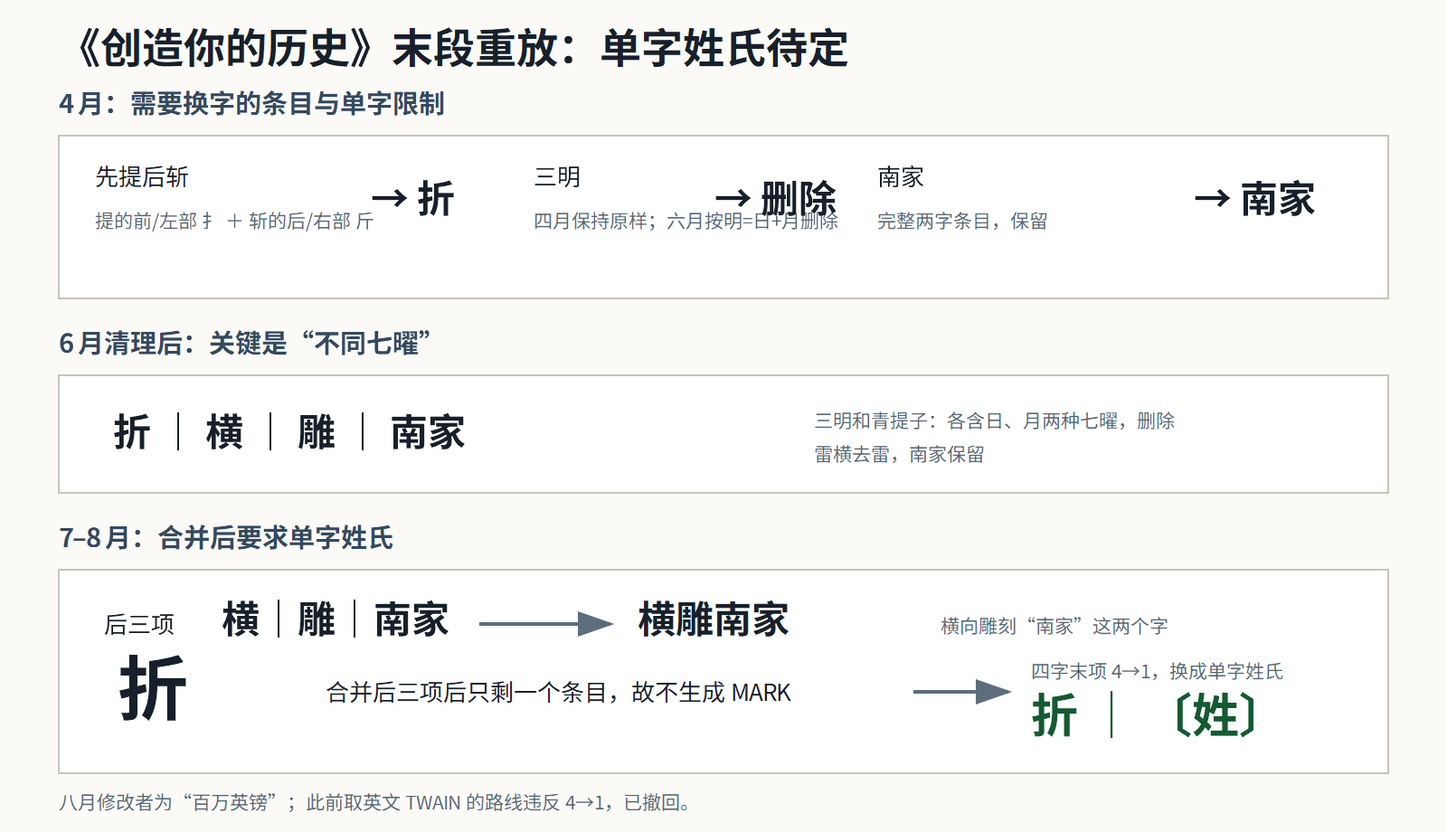
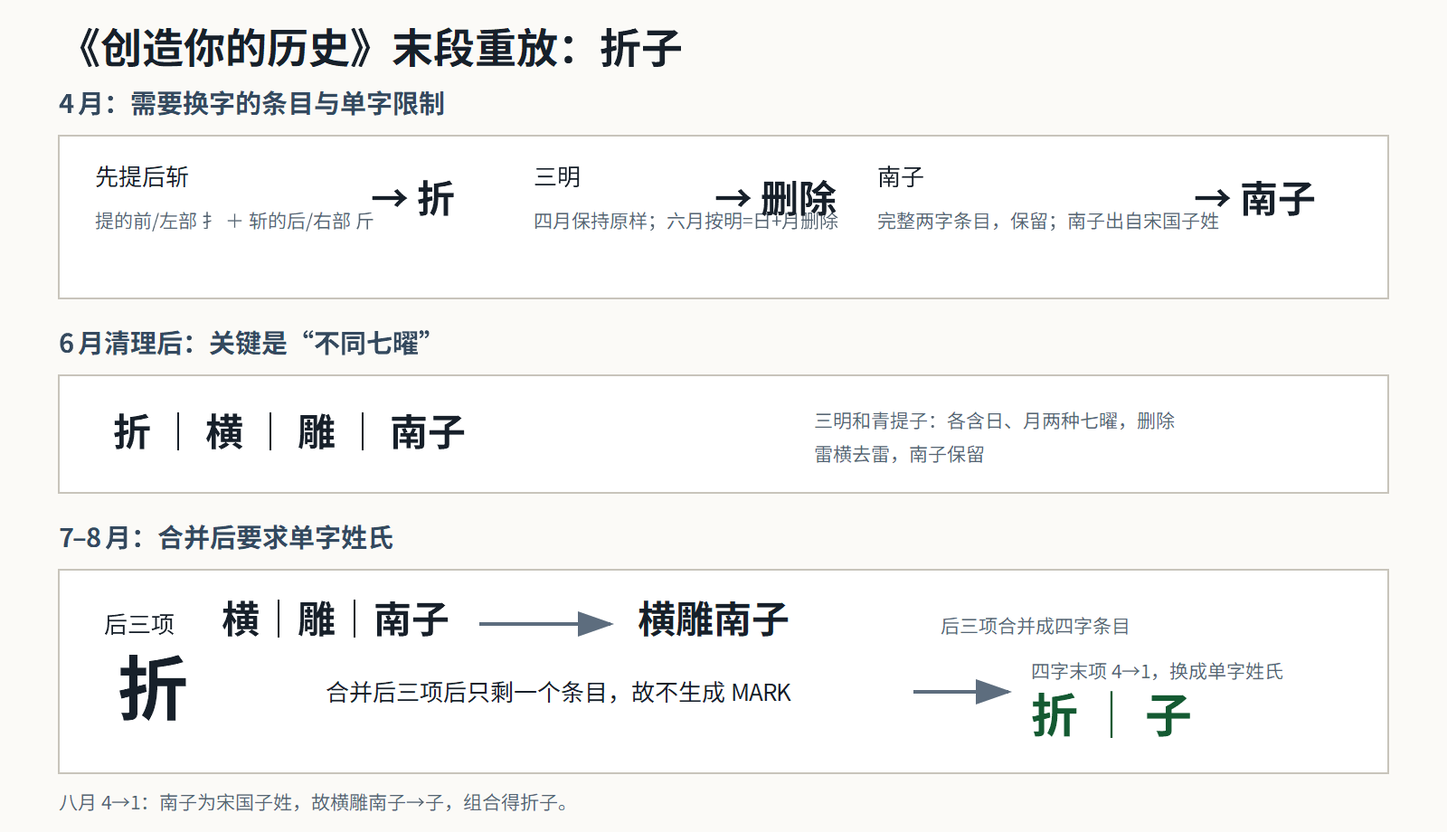
sync

diff --git a/rounds/toringmoni/nodes/c03-make-your-own-history/artifacts/reconstruct_history.py b/rounds/toringmoni/nodes/c03-make-your-own-history/artifacts/reconstruct_history.py
@@ -163,9 +163,28 @@ def write_editor_grid(path: Path, clues: list[EditorClue]) -> None:
         if not (culture_ok and category_ok):
             anomalies.append((pair, before, after))
 
-        resolution = ""
+        resolution = "-"
+        shared_letters = ""
+        repaired_person = ""
         if pair == 5:
-            resolution = "唯一异常：按类别循环这里应为德国人物，但实际编辑者是德语作品‘变形记’；不要直接把异常作品或其作者当答案"
+            # The folded pair is the only category mismatch.  Its English
+            # referents have a deliberately useful multiset intersection:
+            # BORSCHT ∩ THEMETAMORPHOSIS = H,O,R,S,T.  Alphabetically writing
+            # that overlap gives HORST, a German male given name, which fits
+            # the missing German-person slot.  Keep the extraction explicit so
+            # the candidate is reproducible rather than an arbitrary title or
+            # author guess.
+            left = re.sub(r"[^A-Z]", "", before.referent.upper())
+            right = re.sub(r"[^A-Z]", "", after.referent.upper())
+            shared_letters = "".join(
+                sorted(set(left).intersection(right))
+            )
+            repaired_person = "HORST" if shared_letters == "HORST" else ""
+            resolution = (
+                "唯一类别异常：按循环这里应为德国人物；变形记是德语作品。"
+                f"其英文名与 Borscht 的共有字母为 {shared_letters}，"
+                f"重排成德国人名 {repaired_person}"
+            )
 
         rows.append(
             [
@@ -184,6 +203,8 @@ def write_editor_grid(path: Path, clues: list[EditorClue]) -> None:
                 expected_category,
                 "ok" if culture_ok else "mismatch",
                 "ok" if category_ok else "mismatch",
+                shared_letters,
+                repaired_person,
                 resolution,
             ]
         )
@@ -213,6 +234,8 @@ def write_editor_grid(path: Path, clues: list[EditorClue]) -> None:
                 "expected_after_category",
                 "culture_check",
                 "category_check",
+                "shared_letters",
+                "repaired_person",
                 "resolution",
             ]
         )
@@ -280,7 +303,8 @@ def main() -> None:
     print("milestone bridge: final editor is The Million Pound Bank Note")
     print("paired-editor anomaly: Borscht -> The Metamorphosis")
     print("expected second type: German-language person")
-    print("answer candidate: unresolved after folded-history extraction")
+    print("folded overlap: BORSCHT ∩ THEMETAMORPHOSIS = HORST")
+    print("answer candidate: HORST (German-person repair; not submitted)")
     print(f"wrote: {output}")
     print(f"wrote: {editor_output}")
 

diff --git a/rounds/toringmoni/nodes/c03-make-your-own-history/solution.md b/rounds/toringmoni/nodes/c03-make-your-own-history/solution.md
@@ -7,10 +7,10 @@ parent:
 source: 
 round_feeder: yes
 feeders: 
-status: working
-answer:
+status: candidate
+answer: HORST
 confidence: high
-summary: 已重放出自洽的主链 `人设→北子设→南子→横雕南子→折子`。用户指出“家丁→家人”语义不成立，因此不再采用家人；`人设`满足九月 2→2 网络用语，`南子`是历史人物，其“子”可作古姓，八月得到中间答案 `折子`。最终答案仍需按中间答案折叠十二位修改者的历史并完成抽取；不再把 MARK TWAIN、变形记、FRANZ KAFKA 或 HANS ZIMMER 当答案。
+summary: 已重放出自洽的主链 `人设→北子设→南子→横雕南子→折子`，并按中间答案折叠十二位修改者。六组文化/类别轮换只有第5组类别异常；`BORSCHT` 与 `THE METAMORPHOSIS` 的共有字母为 `HORST`，重排成符合缺失“德国人物”类别的德国男性名。候选尚未提交；不再把 MARK TWAIN、变形记、FRANZ KAFKA 或 HANS ZIMMER 当答案。
 updated: 2026-08-18
 ---
 
@@ -23,9 +23,9 @@ updated: 2026-08-18
 十二月得到 `南子`；因此七月应为 `折｜横雕南子`。八月 4→1 的末项替换为古姓
 `子`，组合所有条目得到中间答案 **折子**。
 
-`折子` 是当前最强的中间答案，而不是已确认的最终答案。它应当提示把十二位后续
-编辑的历史记录折叠/配对；此前由编辑类别异常直接猜 `变形记`、`FRANZ KAFKA` 或
-`HANS ZIMMER` 的路线均已排除，折叠后的最终抽取仍待确定。
+`折子` 提示把十二位后续编辑的历史记录折叠/配对。折叠后唯一的类别异常定位到
+`罗宋汤→变形记`；把两条英文标题叠合，保留双方共有的字母得到 `HORST`，而它正是
+按循环缺失的德国人物类别。故当前最终候选为 **HORST**，但尚未提交或被用户确认。
 
 用户已明确否定 `MARK TWAIN`、“美国队长”、`FRANZ KAFKA`、`变形记` 和
 `HANS ZIMMER`；所有 verdict 均保留在 Submission history。
@@ -101,11 +101,12 @@ I T S R E D H E R R I N G
 相反，`岁月是把杀猪刀→刻→雕刻→雕` 每一步都由题面后续约束直接支持；目前仍把
 “杀猪刀”列为主分支，把“岁月如梭”记录为待复核的弱分支。
 
-## Folded-history extraction (next step unresolved)
+## Folded-history extraction: HORST
 
 在得到中间答案 `折子` 后，一个可复核的观察是：排除首次“创建历史”的 `中国队长`，
 恰有十二次后续修改；把前六次（2025-09 至 2026-02）与后六次（2026-03 至 2026-08）
-按原顺序配对。下表只记录折叠后能复核的国家/类别规律，不能把唯一异常直接当答案：
+按原顺序配对。下表记录折叠后能复核的国家/类别规律。它把唯一异常定位到第 5 对，
+随后才进行字母叠合；不能把 `变形记` 标题、作者或既有编辑者姓名直接当答案：
 
 | 对 | 前六位修改者 | 文化圈 / 类别 | 后六位修改者 | 实际文化圈 / 类别 | 按规律应为 | 检验 |
 | --- | --- | --- | --- | --- | --- | --- |
@@ -127,31 +128,37 @@ I T S R E D H E R R I N G
 这两条规则同时命中 5/6 对的偏移；其余 11 个偏移最多只命中 2 对。因此这里的
 “前后两半”不是任意挑选的排法。
 
-六对的文化圈全部正确，类别五对正确；唯一错误是第 5 对。这个异常只证明折叠后
-存在一个待解释的类别变化；此前把“德国人物”的缺口直接取为 **汉斯季默**，或把
-`变形记`转换成作者，均已被用户否定，不能作为最终答案：
+六对的文化圈全部正确，类别五对正确；唯一错误是第 5 对。这个异常定位了一个待解释
+的类别变化。取这一对的英文 referent（去掉空格、冠词和标点）并保留两边共有的字母：
 
 ```text
-罗宋汤（俄罗斯食物） → [按循环应为德国人物]；实际为变形记（德国作品）
+ BORSCHT
+ THEMETAMORPHOSIS
+ 共有字母（按字母序）= H O R S T
 ```
+
+`HORST` 是德语区男性名，正好补上循环要求的“德国人物”槽位。这里的字母叠合/重排
+是折叠操作在异常对上的具体抽取；`HANS ZIMMER` 只是表中已有的德国人物，不能代替
+抽出的新答案。
 
 ## Hint alignment
 
 - 提示 1“题面在哪里？”：极光页面的历史修改记录。
-- 提示 3“得到中间答案后如何使用？”：当前中间答案为 `折子`；其字面动作提示折叠
-  历史修改记录，再比较折叠后的两半。具体最终抽取仍未确定。
+- 提示 3“得到中间答案后如何使用？”：中间答案 `折子` 的字面动作提示折叠历史
+  修改记录，再比较折叠后的两半；异常对再叠合英文标题。
 - 已解锁的“哪些步骤替换了合适的词语？”提示给出四个长度核对：什锦饭为
   `2→2`（九月第四项的网络用语），罪与罚为 `4→2`（一清二楚→三明），巴吞鲁日为
   `4→1`（先提后斩→折），百万英镑为 `4→1`（横雕南子→子）。
 - 这组核对也排除了三字“家人们”、把“三明”擅自改成“晶”、以及把四字末项
   直接当作英文 TWAIN 而丢掉前面的“折”的旧路线。
 - 提示 5“历史改变后，哪些东西发生了变化？”：折叠后可观察到修改者文化圈和条目
-  类别的变化规律；唯一类别异常仍需找到题目要求的最终抽取方式。
+  类别的变化规律；第 5 对的类别从预期“人物”变成“作品”，因此触发共有字母抽取。
 
 ## Candidate audit
 
-- 十二位后续修改者全部用尽；六组文化轮换全对、类别轮换仅一处异常，定位唯一；这
-  是折叠观察，不足以直接给出答案。
+- 十二位后续修改者全部用尽；六组文化轮换全对、类别轮换仅一处异常，定位唯一。
+- 异常对英文 referent 的字母交集为 `HORST`；这是可复核的五字母抽取，且 `HORST` 是
+  德语区男性名，符合缺失类别。
 - `变形记` 曾因唯一类别失配被列为候选，但用户已明确判错；英文标题只是同一失败
   候选的语言变体，不能借换语言重新试。此前取缺口为汉斯季默也已被用户否定。
 - `FRANZ KAFKA` 虽能把该作品解释成“德语人物”，但这是额外一步且已被用户否定，
@@ -161,18 +168,18 @@ I T S R E D H E R R I N G
 - 极光正文中的架空国家名和警告数字 `18.17.7.14` 未参与本 Node；用户判断后者
   更可能属于 Meta。
 
-### Remaining answer-form ambiguity
+### Candidate answer form
 
 用户 verdict 已证明 `MARK TWAIN`、`FRANZ KAFKA`、`变形记` 和 `HANS ZIMMER` 均不是
-答案；`折｜TWAIN`→“fold in twain”也因八月 4→1 约束撤回。`折子`是高置信中间答案，
-最终答案尚未确定。
+答案；`折｜TWAIN`→“fold in twain”也因八月 4→1 约束撤回。`HORST`来自异常对的
+英文共有字母并满足缺失类别，是当前候选；未提交，等待用户确认。
 
 “七曜”按字形部件计数时，`明=日+月`，六月应同时删除“三明”和“青提子”；七月
 因此只剩一个合并之外的条目 `折`，自然不触发“剩余条目数量大于1”的西文名称分支。
 这不是把“三明”改成“晶”：三明在四月保持原样，直到六月才因七曜规则被删除。
 
 本轮只做了只读核对，没有提交或解锁提示；不要再提交已判错的
-`MARK TWAIN`、`FRANZ KAFKA`、`变形记` 或 `HANS ZIMMER`。
+`MARK TWAIN`、`FRANZ KAFKA`、`变形记` 或 `HANS ZIMMER`。`HORST`也尚未由用户提交。
 
 ## Submission history
 
@@ -199,12 +206,14 @@ I T S R E D H E R R I N G
 - `artifacts/reconstruct_history.py`：从下载的历史页抽取十三条记录，校验日期烟雾
   弹，输出逐步状态，并验证十二位后续修改者的六组轮换。
 - `artifacts/history_chain.tsv`：逐次状态和依据。
-- `artifacts/editor_grid.tsv`：六组前后修改者、预期分类及唯一异常。
+- `artifacts/editor_grid.tsv`：六组前后修改者、预期分类、唯一异常及 `HORST` 共有字母
+  抽取。
 - `artifacts/history_wordplay.svg` / `.png`：记录末段重放的可视化；其中的 TWAIN/南家
   路线是旧失败路线，持久表格以 `横雕南子→子→折子` 为准。
 - 《The £1,000,000 Bank-Note》作者资料：
   `https://www.gutenberg.org/ebooks/61522`。
 - 《Metamorphosis》作者资料：`https://www.gutenberg.org/ebooks/5200`。
+- 德语区男性名 `Horst` 的词典条目：`https://www.duden.de/rechtschreibung/Horst_Vorname`。
 - 复现命令：
 
   ```text
@@ -242,5 +251,5 @@ I T S R E D H E R R I N G
 
 ## Next action
 
-当前状态为 working；`折子`是高置信中间答案，但尚未提交。下一步是在不提交答案/提示
-的前提下，确定折叠十二位修改记录后的最终抽取；不要重复提交已有失败候选。
+当前状态为 candidate；`HORST`是由折叠异常对得到的高置信候选，但尚未提交或确认。
+下一步是由用户决定是否手动提交 `HORST` 进行验证；在此之前不要操作答案/提示状态。

diff --git a/SUMMARY.md b/SUMMARY.md
@@ -2,7 +2,7 @@
 
 <!-- Generated by tools/build_summary.py. Do not edit manually. -->
 
-**Overall:** 5 working · 1 candidate · 1 blocked · 19 accepted · 2 rejected
+**Overall:** 4 working · 2 candidate · 19 accepted · 3 rejected
 
 ## 祸乱时柒的爱情 (`shi-qi-love-in-chaos`)
 
@@ -27,7 +27,7 @@
 
 ## 视中监 (`toringmoni`)
 
-**Progress:** 2 working · 1 candidate · 1 blocked · 5 accepted · 1 rejected
+**Progress:** 1 working · 2 candidate · 5 accepted · 2 rejected
 
 **Feeder coverage:** 0/10 · unassigned: c01-carpe-diem, c02-born-from-the-same-root, c03-make-your-own-history, c04-radio-calisthenics-26, c05-path-in-a-rose-garden, c06-love-in-florence, c07-carbon-based-lifeform-calculator, c08-novel-therapies, c09-asia-trio, c10-traveling-around
 
@@ -35,13 +35,13 @@
 |---|---|---|---|---|---|---|---|---|---|---|---|
 | puzzle | c01-carpe-diem | 把握今朝 | yes |  | rejected |  | low |  | 用户已明确拒绝‘黄飞虎牛’、‘五色神牛’和单独的‘黄飞虎’。此前按首字/终点动物拼接的路线全部失效，需回到四图共同机制。 | 2026-08-18 | [solution](rounds/toringmoni/nodes/c01-carpe-diem/solution.md) |
 | puzzle | c02-born-from-the-same-root | 本是同根生 | yes |  | accepted | LITHARGE | high |  | 已确认里程碑 IN ONE FAMILY 指示每关寻找同一植物科的两种植物；它们相对中央旗帜再次构成旗语，读出 ANS LITHARGE，最终答案 LITHARGE 已获用户确认。 | 2026-08-17 | [solution](rounds/toringmoni/nodes/c02-born-from-the-same-root/solution.md) |
-| puzzle | c03-make-your-own-history | 创造你的历史 | yes |  | working |  | high |  | 已重放出自洽的主链 `人设→北子设→南子→横雕南子→折子`。用户指出“家丁→家人”语义不成立，因此不再采用家人；`人设`满足九月 2→2 网络用语，`南子`是历史人物，其“子”可作古姓，八月得到中间答案 `折子`。最终答案仍需按中间答案折叠十二位修改者的历史并完成抽取；不再把 MARK TWAIN、变形记、FRANZ KAFKA 或 HANS ZIMMER 当答案。 | 2026-08-18 | [solution](rounds/toringmoni/nodes/c03-make-your-own-history/solution.md) |
+| puzzle | c03-make-your-own-history | 创造你的历史 | yes |  | candidate | HORST | high |  | 已重放出自洽的主链 `人设→北子设→南子→横雕南子→折子`，并按中间答案折叠十二位修改者。六组文化/类别轮换只有第5组类别异常；`BORSCHT` 与 `THE METAMORPHOSIS` 的共有字母为 `HORST`，重排成符合缺失“德国人物”类别的德国男性名。候选尚未提交；不再把 MARK TWAIN、变形记、FRANZ KAFKA 或 HANS ZIMMER 当答案。 | 2026-08-18 | [solution](rounds/toringmoni/nodes/c03-make-your-own-history/solution.md) |
 | puzzle | c04-radio-calisthenics-26 | 广播体操二十六式 | yes |  | accepted | UMBREON | high |  | 已确认跳舞的蟹后端与界面均为 19/19。将全部 19 张 18×18 黑白贴纸逐格相加，恰有 7 个被所有贴纸填白的格；按行列读取得到‘八种中黑夜进化’，指向八种伊布进化中的月亮伊布（Umbreon）。用户确认 Umbreon 答案正确。 | 2026-08-18 | [solution](rounds/toringmoni/nodes/c04-radio-calisthenics-26/solution.md) |
 | puzzle | c05-path-in-a-rose-garden | 玫瑰花园的小径 | yes |  | accepted | BOUGAINVILLEA | high |  | 用户已确认 BOUGAINVILLEA 正确；填盘后沿三条箭头读出 garden-path sentences，提取消歧词并从左到右排列为 THREE ANGLED PLUMS，即“三角梅”。 | 2026-08-17 | [solution](rounds/toringmoni/nodes/c05-path-in-a-rose-garden/solution.md) |
 | puzzle | c06-love-in-florence | 情迷翡冷翠 | yes |  | working |  | medium |  | &gt;- | 2026-08-18 | [solution](rounds/toringmoni/nodes/c06-love-in-florence/solution.md) |
 | puzzle | c07-carbon-based-lifeform-calculator | 碳基生物计算器 | yes |  | accepted | EMERGENCY SKIN | high |  | 用户确认答案 EMERGENCY SKIN 正确。同一希腊符号会随城市和用途改变含义：伦敦投资用金衡磅、上海旅行用海里、香港投资用金衡两、纽约牛奶用美制液量盎司。按页面介绍句顺序，四个整数直接分组 A1Z26 得 EMER-GEN-CYS-KIN。 | 2026-08-17 | [solution](rounds/toringmoni/nodes/c07-carbon-based-lifeform-calculator/solution.md) |
 | puzzle | c08-novel-therapies | 新式疗法 | yes |  | accepted | KAGAMINE RIN | high |  | 十五条英文线索的答案都是 Cure 名；每条线索的词数等于 Cure 后缀长度，以其中暗示变身者本名的词位索引后得到 MIRROR SOUND BELL，逐词转成「鏡・音・鈴」即 KAGAMINE RIN（鏡音リン），已由用户确认正确。 | 2026-08-17 | [solution](rounds/toringmoni/nodes/c08-novel-therapies/solution.md) |
-| puzzle | c09-asia-trio | 亚细亚三重奏 | yes |  | blocked |  |  |  | 用户确认“国宝级实力（6.2.6.1）”属于 Meta，本题题面只有贺卡图。提示 2 确认黑线是在把字形分区，且每个区域至多包含一个连续汉字部件。三组彩色注脚按日→韩→中→日循环；颜色确实按近 RGB 回流到底栏，但存在丢弃、变色或合并。底部绿色栏的 2+3 格结构与“빨리/신속히”相似，却不能由简单韩文部件框逐格复现。KanjiVG 6702 字的 6 种笔画框约定也无精确命中。当前缺少提示 1 所说明的词间或数字机制，暂无答案。 | 2026-08-18 | [solution](rounds/toringmoni/nodes/c09-asia-trio/solution.md) |
+| puzzle | c09-asia-trio | 亚细亚三重奏 | yes |  | rejected |  |  |  | 用户确认“国宝级实力（6.2.6.1）”属于 Meta，本题题面只有贺卡图。提示 1 已确认题面在购物软件推荐栏；提示 2 规定每个分区至多有一个连续汉字部件；页面可见提示 3--5 仍锁定。三组彩色注脚按日→韩→中→日循环，但颜色回流存在丢弃、变色或合并。底部绿色栏的 2+3 格结构与“빨리/신속히”相似，却不能逐格复现。笔画框、连通块、IDS 部件数差等有界检验均未给出共同候选；页面记录的旧候选 OLYMPIAD 已明确错误，当前无可靠答案。 | 2026-08-18 | [solution](rounds/toringmoni/nodes/c09-asia-trio/solution.md) |
 | puzzle | c10-traveling-around | 周游列国 | yes |  | candidate | TOIL | medium |  | 动态 WIG 账号中的四篇旅行日记与 25 条按字母序思绪相互关联。正式题面四段虚线数为 11、10、2、4，按索引得到 LUNAR ORBIT、LILLIE BRIDGE DEPOT、COMMUNICATION FOUNDATION、DOWN TWO，分别对应日 3、2、1、4。去掉空格后按字符位置寻找同位相同字母，唯一命中为 L、O、I、T（LOIT）；结合‘混乱思绪’的重排提示得到英文候选 TOIL。MAX AND CAROLINE 是已确认中间答案；8、Apollo、DOWN TWO、Indigo、LIMN 均已排除，17.12.7.3 属于 Meta 内容而暂不使用。 | 2026-08-18 | [solution](rounds/toringmoni/nodes/c10-traveling-around/solution.md) |
 
 ## 卡美洛终端 WIG (`wig`)

diff --git a/rounds/toringmoni/nodes/c09-asia-trio/solution.md b/rounds/toringmoni/nodes/c09-asia-trio/solution.md
@@ -7,10 +7,10 @@ parent:
 source:
 round_feeder: yes
 feeders:
-status: blocked
+status: rejected
 answer:
 confidence:
-summary: 用户确认“国宝级实力（6.2.6.1）”属于 Meta，本题题面只有贺卡图。提示 2 确认黑线是在把字形分区，且每个区域至多包含一个连续汉字部件。三组彩色注脚按日→韩→中→日循环；颜色确实按近 RGB 回流到底栏，但存在丢弃、变色或合并。底部绿色栏的 2+3 格结构与“빨리/신속히”相似，却不能由简单韩文部件框逐格复现。KanjiVG 6702 字的 6 种笔画框约定也无精确命中。当前缺少提示 1 所说明的词间或数字机制，暂无答案。
+summary: 用户确认“国宝级实力（6.2.6.1）”属于 Meta，本题题面只有贺卡图。提示 1 已确认题面在购物软件推荐栏；提示 2 规定每个分区至多有一个连续汉字部件；页面可见提示 3--5 仍锁定。三组彩色注脚按日→韩→中→日循环，但颜色回流存在丢弃、变色或合并。底部绿色栏的 2+3 格结构与“빨리/신속히”相似，却不能逐格复现。笔画框、连通块、IDS 部件数差等有界检验均未给出共同候选；页面记录的旧候选 OLYMPIAD 已明确错误，当前无可靠答案。
 updated: 2026-08-18
 ---
 
@@ -18,15 +18,21 @@ updated: 2026-08-18
 
 ## Current conclusion
 
-尚无满足候选标准的答案。
+尚无满足候选标准的答案；上一条页面记录中的 `OLYMPIAD` 已明确错误，因此节点暂记为 rejected，不能继续复用该答案。
 
 用户已明确纠正：购物推荐中的 **“国宝级实力（6.2.6.1）”属于 Meta 相关信息，不是本题种子**；本题题面只有 `最好的贺卡.webp`。此前由该文字推出“熊猫的能力”和四条笔画路线的内容全部撤回。
+
+提示 1 的原文是：
+
+> 在这一章的剧情中，你需要查看某个购物软件（不是二手交易软件）。这个谜题在软件的推荐栏中。
 
 提示 2 的原文是：
 
 > 分出的每一个区域内至多存在一个连续的汉字部件（可以一个都没有）。
 
 因此黑线图首先应解释为对字形的**分区约束**：在每个区域中，最多出现一个局部连通部件。它没有直接说明区域就是整笔画的外接框，也没有说明一个完整连通部件不能跨越区域。现有证据不足以把黑线当作笔顺图或精确的连通块外接框。
+
+页面只读查看还显示提示 3 标题为“右边两个区域内的东西似乎都有点奇怪？”，提示 4 为“我补完了所有词，但我不知道怎样提取出答案”，提示 5 为“我提取出的内容看起来不太像人话”；三者均未解锁，正文未知。
 
 最可靠的宏观结构仍是三种语言和彩色小块组成的循环：日文区的绿色注脚对应韩文区底栏，韩文区的蓝色注脚对应中文区底栏，中文区的红紫橙注脚对应日文区底栏。行旁的带符号数字很可能参与变换或索引，但普通字形连通块数之差与这些数字不符。
 
@@ -42,6 +48,7 @@ updated: 2026-08-18
 - 韩文区底栏是两个完全铺满的绿色矩形，天然分为 `2+3` 个等宽字格。五格的内部部件布局与候选 `빨리 / 신속히` 很相似，但这只支持一行局部识别，不能证明整套词对。
 - 两对黑线字格逐像素相同：`日文 +5 左词第 2 格 = 中文 -6 右词第 2 格`；`日文 +7 右词第 2 格 = 中文 +7 左词第 2 格`。这可能是同一字形或同一分区状态的跨语言复用。
 - “例”字示意中的粗字形可见多个局部连通部分；不同候选字体会产生 3 或 4 个连通块，因此不能仅凭示意确定制图字体和全局连通块规则。
+- 把 IDS 递归叶部件数作为数字差的候选机制做了有界检验：左侧 `+7/-6/+6/+2` 的精确同义词候选分别为 337/10/627/561，只有 `-6` 数量较少且主要是生僻或扩展口语，未形成四行共享主题。日文 `+1` 的 IDS 差候选也只有少数（含 `一々/いちいち`），但与其余行和分区图不闭合。
 
 精确行表、颜色流向及重复格记录在 `artifacts/color-cycle-layout.tsv`；所有彩色块的 RGB 与坐标在 `work/colored_geometry.tsv`。
 
@@ -64,7 +71,9 @@ updated: 2026-08-18
 ## Important failed routes
 
 - **Meta 文案种子**：用户确认“国宝级实力（6.2.6.1）”不属于本题；“熊猫的能力”、四条起始笔画和由此产生的所有路径均撤回。
+- **OLYMPIAD**：页面答案记录将该候选明确标为“错误”；已移入提交记录，不再作为答案候选。
 - **普通连通块数差等于行号**：在 MS Gothic、Yu Gothic、Source Han Sans/Serif、Noto Sans CJK 和多个二值化阈值下，旧日语词对的左右差值分别约为 `+1/+2`、`0/+1`、`0…+4`，无法得到题面的 `+5,+1,+7` 整组。
+- **IDS 叶部件数差等于行号**：日文 `+1` 的候选集合很小，但左侧同义词库的精确候选仍为 337/10/627/561，且未出现四行共同的贺卡/赠礼主题；这条机制暂不成立。
 - **每框就是整笔画或完整部件的外接矩形**：公开笔顺数据、字体轮廓和精确矩形覆盖均不能稳定生成题图；反向测试普通并集和不透明覆盖也有大量不可分解字格。
 - **按颜色直接搬运部件**：对韩文 `빨리/신속히` 做整部件平移和质心搬运后只得到零散韩文字件，不能生成可信中文。
 - **用字体像素拟合提示条件**：JMdict 同读异写词和中文同义词在多字体、阈值与“区域内至多一个局部部件”评分下均由简单字形占优，排名不收敛。
@@ -90,7 +99,12 @@ updated: 2026-08-18
 
 | Date | Candidate | Result | Note |
 | --- | --- | --- | --- |
+| 2026-08-17 | OLYMPIAD | 错误 | 页面答案记录中的既有提交（本轮未再次提交） |
+
+## Rejected candidate
+
+- **OLYMPIAD**：页面答案记录明确标为“错误”；没有任何新证据支持恢复它。
 
 ## Next action
 
-当前缺少可再区分候选的本地证据。下一步需要**提示 1 的原文**，因为提示 2 只规定了合法分区，却没有说明左右词的关系、行号作用或如何从底栏读出结果。拿到提示 1 后，先以底部 `2+3` 格为校准点，逐格验证 `빨리/신속히` 或替代词对，再沿日→韩→中→日的颜色循环完成一整圈；闭环前不提交答案。
+当前缺少可再区分候选的证据。若继续，需要用户提供已锁定的提示 3 正文（或明确授权解锁）；在未获授权前不解锁提示、不提交答案。拿到提示 3 后，先以右侧日/韩两区的“奇怪”之处和底部 `2+3` 格校准词对，再沿日→韩→中→日颜色循环完成一整圈。
